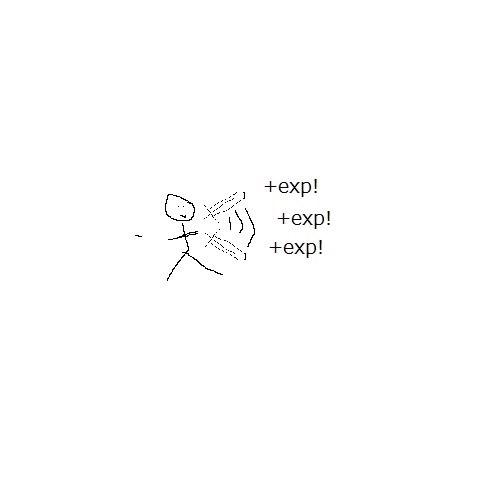
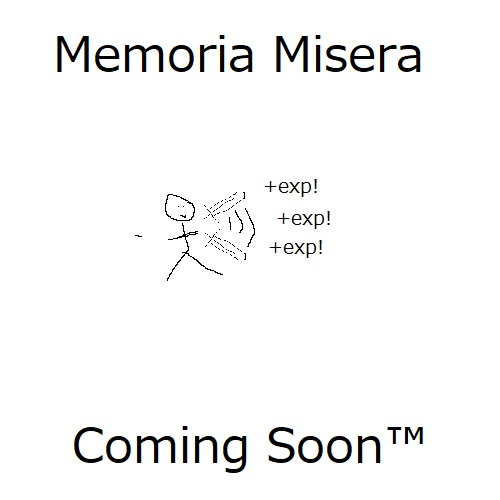
broke out localization and game dev into two separate pages

diff --git a/index.html b/index.html
@@ -1,14 +1,16 @@
 ---
 layout: splash
 author_profile: false
-title: "Hej!"
+title: "Hej! Welcome!"
 header:
   overlay_color: "#000"
   overlay_filter: "0.5"
   overlay_image: /assets/images/testsplash.png
   actions:
-    - label: "View Works"
-      url: "/works/"
+    - label: "Localization"
+      url: "/localizationworks/"
+    - label: "Game Dev"
+      url: "/gamedev/"
   caption: >-
     Placeholder image. "Hunter X Hunter" © SHUEISHA Inc. All rights reserved.
 excerpt: |

diff --git a/_pages/gamedev.md b/_pages/gamedev.md
@@ -1,0 +1,19 @@
+---
+title: "Game Dev"
+layout: splash
+permalink: /gamedev/
+intro: 
+  - excerpt: "Welcome to my game dev portfolio!"
+feature_row:
+  - image_path: /assets/images/memoriamisera.jpg
+    alt: "Memoria Misera"
+    title: "Memoria Misera"
+    excerpt: "Memoria Misera, an original game prototype developed in Unity by me."
+    url: "memoriamisera"
+    btn_label: "Read More"
+    btn_class: "btn--info"
+---
+
+{% include feature_row id="intro" type="center" %}
+
+{% include feature_row id="feature_row" type="right"%}

diff --git a/_pages/localizationworks.md b/_pages/localizationworks.md
@@ -1,7 +1,7 @@
 ---
-title: "Works"
+title: "Localization"
 layout: splash
-permalink: /works/
+permalink: /localizationworks/
 intro: 
   - excerpt: "Welcome to my portfolio! Here I feature some of my past projects and reflect upon what I've learned and what I might do differently were I to do it again."
 feature_row:
